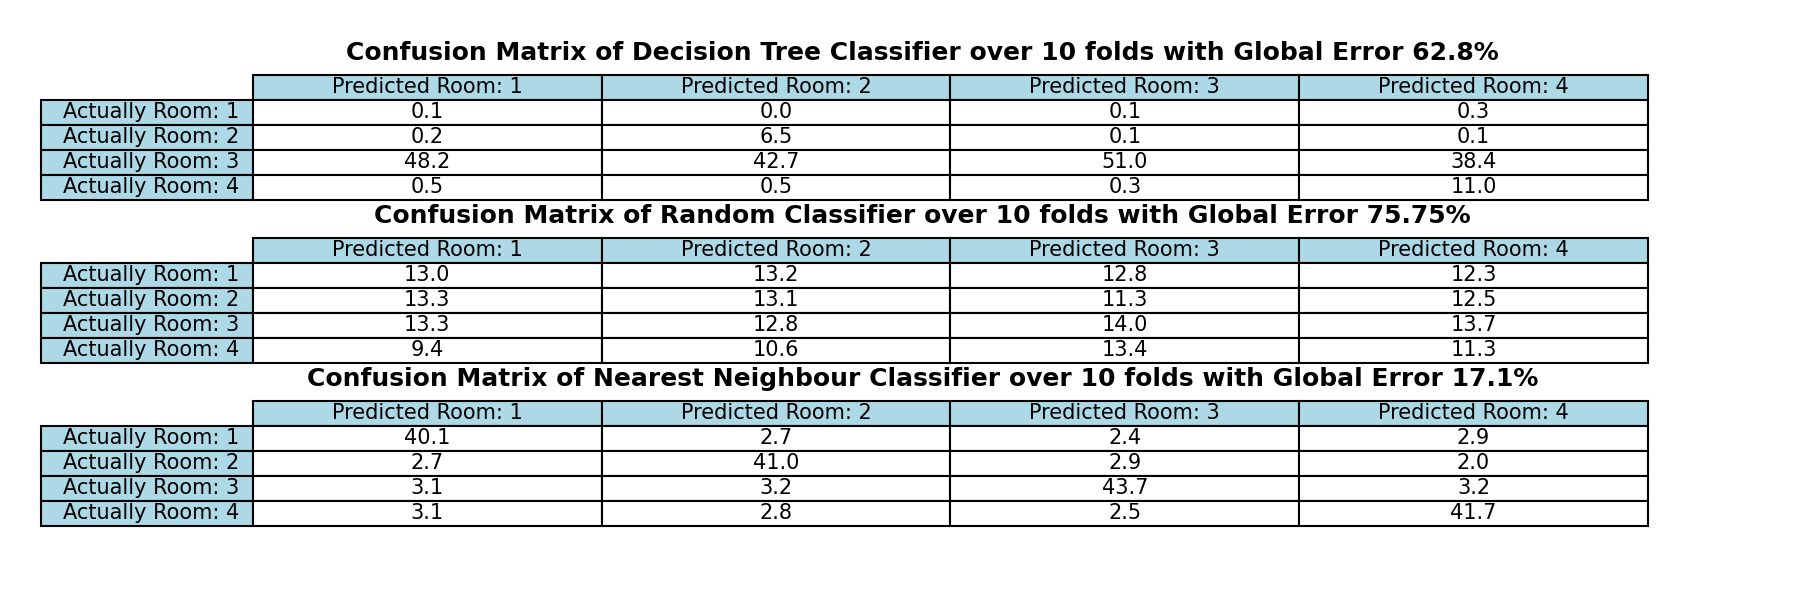
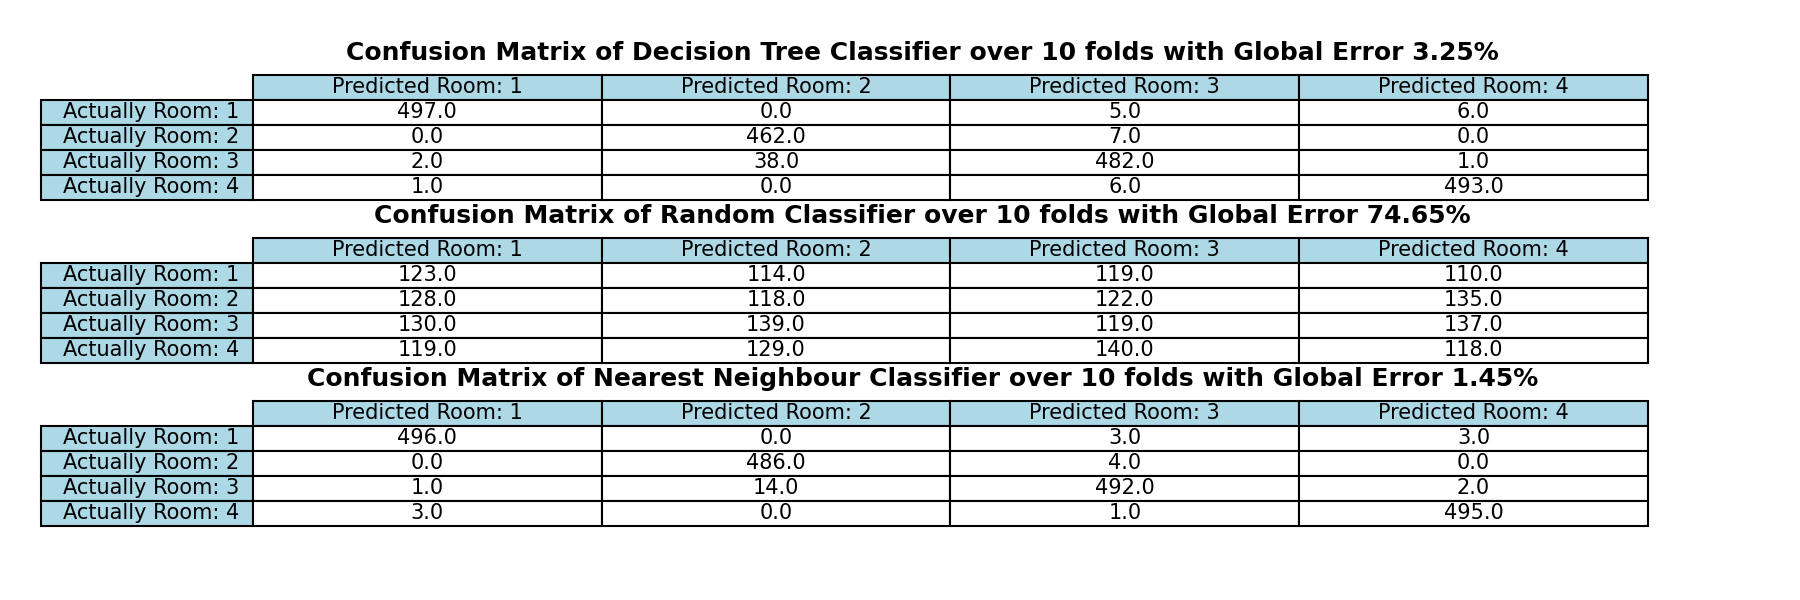
fixing confusion matrix errors

diff --git a/Testbenches.py b/Testbenches.py
@@ -135,13 +135,9 @@ class Model_Comparison_TB():
                             confusion[name][row_index][col_index] += cell
                             #confusion[name][row_index][col_index] += cell / num_folds
 
-        if(1):
+        if(0):
             for name, matrix in confusion.items():     
-                for rowIndex, row in enumerate(matrix):
-                    for colIndex, cell in enumerate(row):
-                            
-                        confusion[name][rowIndex][colIndex] = cell / num_folds
-                
+                confusion[name] = matrix / 10
                 
         self.confusion = confusion
         #print(self.confusion)
@@ -311,281 +307,10 @@ class Depth_Hyperparameter_Tuning():
     def __init__(self, dataset, tree_model, depth_min = 4, depth_max = 55, num_folds=10, mode="preLoaded-noisy"):
         
         # This test takes a very long time to run, so there is some pre-determined data here
-        preRun_clean_data = {
-            4: np.array([[49.8,  0. ,  0.5,  0.9],
-            [ 0. , 43.1,  0.2,  0. ],
-            [ 0.2,  6.9, 49. ,  0.2],
-            [ 0. ,  0. ,  0.3, 48.9]]), 
-            
-            5: np.array([[49.8,  0. ,  0.9,  0.8], 
-            [ 0. , 43.8,  0.5,  0. ],
-            [ 0.2,  6.2, 48.5,  0.1],
-            [ 0. ,  0. ,  0.1, 49.1]]), 
-            
-            6: np.array([[49.8,  0. ,  0.8,  0.7], 
-            [ 0. , 44.3,  0.8,  0. ],
-            [ 0.2,  5.7, 48.3,  0.2],
-            [ 0. ,  0. ,  0.1, 49.1]]), 
-            
-            7: np.array([[49.8,  0. ,  0.9,  0.7], 
-            [ 0. , 45.4,  0.6,  0. ],
-            [ 0.2,  4.6, 48.3,  0. ],
-            [ 0. ,  0. ,  0.2, 49.3]]), 
-            
-            8: np.array([[49.8,  0. ,  0.8,  0.6], 
-            [ 0. , 45.4,  0.7,  0. ],
-            [ 0.2,  4.6, 48.3,  0.2],
-            [ 0. ,  0. ,  0.2, 49.2]]), 
-            
-            9: np.array([[49.7,  0. ,  0.5,  0.6], 
-            [ 0. , 45.2,  0.5,  0. ],
-            [ 0.2,  4.8, 48.7,  0.1],
-            [ 0.1,  0. ,  0.3, 49.3]]), 
-            
-            10: np.array([[49.8,  0. ,  0.8,  0.6],
-            [ 0. , 45.3,  0.5,  0. ],
-            [ 0.2,  4.7, 48.5,  0.1],
-            [ 0. ,  0. ,  0.2, 49.3]]), 
-            
-        11: np.array([[49.7,  0. ,  0.5,  0.4],
-            [ 0. , 45.5,  0.5,  0. ],
-            [ 0.2,  4.5, 48.8,  0.3],
-            [ 0.1,  0. ,  0.2, 49.3]]), 
-            
-        12: np.array([[49.7,  0. ,  0.6,  0.5],
-            [ 0. , 45.7,  0.5,  0. ],
-            [ 0.2,  4.3, 48.7,  0.2],
-            [ 0.1,  0. ,  0.2, 49.3]]), 
-            
-        13: np.array([[49.7,  0. ,  0.7,  0.5],
-            [ 0. , 45.5,  0.5,  0. ],
-            [ 0.2,  4.5, 48.5,  0.2],
-            [ 0.1,  0. ,  0.3, 49.3]]), 
-            
-        14: np.array([[49.7,  0. ,  0.6,  0.3],
-            [ 0. , 45.7,  0.8,  0. ],
-            [ 0.2,  4.3, 48.3,  0.3],
-            [ 0.1,  0. ,  0.3, 49.4]]), 
-            
-        15: np.array([[49.7,  0. ,  0.6,  0.5],
-            [ 0. , 46. ,  0.5,  0. ],
-            [ 0.2,  4. , 48.6,  0.2],
-            [ 0.1,  0. ,  0.3, 49.3]]), 
-            
-        16: np.array([[49.7,  0. ,  0.6,  0.5],
-            [ 0. , 45.8,  0.5,  0. ],
-            [ 0.2,  4.2, 48.6,  0.1],
-            [ 0.1,  0. ,  0.3, 49.4]]), 
-            
-        17: np.array([[49.8,  0. ,  0.7,  0.3],
-            [ 0. , 45.5,  0.5,  0. ],
-            [ 0.2,  4.5, 48.7,  0.2],
-            [ 0. ,  0. ,  0.1, 49.5]]), 
-            
-            18: np.array([[49.7,  0. ,  0.7,  0.5],
-            [ 0. , 46.1,  0.7,  0. ],
-            [ 0.2,  3.9, 48.3,  0.3],
-            [ 0.1,  0. ,  0.3, 49.2]]), 
-            
-            19: np.array([[49.6,  0. ,  0.6,  0.3],
-            [ 0. , 46. ,  0.9,  0. ],
-            [ 0.4,  4. , 48.1,  0.3],
-            [ 0. ,  0. ,  0.4, 49.4]]), 
-            
-            20: np.array([[49.8,  0. ,  0.8,  0.5],
-            [ 0. , 46.2,  0.5,  0. ],
-            [ 0.2,  3.8, 48.6,  0.2],
-            [ 0. ,  0. ,  0.1, 49.3]]), 
-            
-            21: np.array([[49.8,  0. ,  0.7,  0.6],
-            [ 0. , 45.6,  0.5,  0. ],
-            [ 0.2,  4.4, 48.3,  0.1],
-            [ 0. ,  0. ,  0.5, 49.3]]), 
-            
-            22: np.array([[49.7,  0. ,  0.6,  0.4],
-            [ 0. , 45.5,  0.6,  0. ],
-            [ 0.2,  4.5, 48.4,  0.5],
-            [ 0.1,  0. ,  0.4, 49.1]]), 
-            
-            23: np.array([[49.7,  0. ,  0.6,  0.6],
-            [ 0. , 45.8,  0.7,  0. ],
-            [ 0.2,  4.2, 48.3,  0.3],
-            [ 0.1,  0. ,  0.4, 49.1]]), 
-            
-            24:  np.array([[49.7,  0. ,  0.7,  0.5],
-            [ 0. , 45.9,  1. ,  0. ],
-            [ 0.2,  4.1, 48. ,  0.2],
-            [ 0.1,  0. ,  0.3, 49.3]]), 
-            
-            25: np.array([[49.7,  0. ,  0.7,  0.4],
-            [ 0. , 46. ,  0.6,  0. ],
-            [ 0.3,  4. , 48.5,  0.3],
-            [ 0. ,  0. ,  0.2, 49.3]])
-       
-       }
-        
-        
-        preRun_noisy_data = {4: np.array([[ 0. ,  0. ,  0. ,  0. ],
-       [ 0. ,  2.5,  0. ,  0. ],
-       [37.6, 38.2, 39.9, 42. ],
-       [11.4,  9. , 11.6,  7.8]]), 5: np.array([[ 0. ,  0. ,  0.1,  0. ],
-       [ 4.5,  6.4,  6. ,  5.4],
-       [44.5, 43.3, 45.4, 43.8],
-       [ 0. ,  0. ,  0. ,  0.6]]), 6: np.array([[ 0. ,  0. ,  0.1,  0. ],
-       [ 5.1,  5.9,  6.1,  4.9],
-       [43.9, 43.6, 45.3, 43.5],
-       [ 0. ,  0.2,  0. ,  1.4]]), 7: np.array([[ 0.1,  0.3,  0.1,  0. ],
-       [ 0.1,  2.3,  0. ,  0. ],
-       [48.8, 47.1, 51.4, 48.6],
-       [ 0. ,  0. ,  0. ,  1.2]]), 8: np.array([[ 0.2,  0.1,  0.1,  0. ],
-       [ 0.1,  2.2,  0.1,  0. ],
-       [44.7, 42.4, 45.4, 44.3],
-       [ 4. ,  5. ,  5.9,  5.5]]), 9: np.array([[ 0.2,  0.1,  0.1,  0. ],
-       [ 0.2,  3.1,  0.1,  0. ],
-       [44. , 41.4, 45. , 44.3],
-       [ 4.6,  5.1,  6.3,  5.5]]), 10: np.array([[ 0. ,  0.1,  0.1,  0.2],
-       [ 5.5,  6.9,  5.7,  5.2],
-       [37.7, 37.5, 40. , 39. ],
-       [ 5.8,  5.2,  5.7,  5.4]]), 11: np.array([[ 0. ,  0.1,  0. ,  0.1],
-       [ 0.1,  3.8,  0.1,  0.2],
-       [48.9, 45.8, 51.4, 47.2],
-       [ 0. ,  0. ,  0. ,  2.3]]), 12: np.array([[ 0. ,  0. ,  0.1,  0.2],
-       [ 4.5,  6.8,  6.7,  4.9],
-       [44.5, 42.9, 44.7, 42.1],
-       [ 0. ,  0. ,  0. ,  2.6]]), 13: np.array([[ 0. ,  0.1,  0.1,  0.2],
-       [ 0.2,  2.8,  0.1,  0. ],
-       [48.8, 46.8, 51.3, 46.8],
-       [ 0. ,  0. ,  0. ,  2.8]]), 14: np.array([[ 0. ,  0. ,  0.1,  0.1],
-       [ 0.3,  5.6,  0.1,  0.1],
-       [48.4, 44. , 51.2, 42.3],
-       [ 0.3,  0.1,  0.1,  7.3]]), 15: np.array([[ 0. ,  0.2,  0.1,  0.2],
-       [ 0.3,  6.9,  0.2,  0.2],
-       [47.8, 42. , 50.1, 30.2],
-       [ 0.9,  0.6,  1.1, 19.2]]), 16: np.array([[ 3.7,  2.1,  6.6,  5. ],
-       [ 5.2, 17.7,  6.9,  4.7],
-       [39.4, 29.6, 37.7, 25.9],
-       [ 0.7,  0.3,  0.3, 14.2]]), 17: np.array([[ 0.3,  0. ,  0.1,  0.4],
-       [ 0.4, 14.2,  0.4,  0.5],
-       [46.9, 34.7, 49.7, 26.3],
-       [ 1.4,  0.8,  1.3, 22.6]]), 18: np.array([[ 3.8,  1. ,  6.3,  5.9],
-       [ 0.4, 14.9,  0.3,  0.4],
-       [43.1, 32.8, 43.8, 15.2],
-       [ 1.7,  1. ,  1.1, 28.3]]), 19: np.array([[ 0.8,  0.2,  0.1,  0.4],
-       [ 0.5, 20.1,  0.9,  0.6],
-       [46.1, 28.4, 49.4, 14.1],
-       [ 1.6,  1. ,  1.1, 34.7]]), 20: np.array([[ 1.5,  0.2,  0.2,  0.4],
-       [ 0.3, 14.2,  0.4,  0.7],
-       [45.3, 34.4, 49.7, 10.2],
-       [ 1.9,  0.9,  1.2, 38.5]]), 21: np.array([[ 8.7,  0.4,  0.4,  1.2],
-       [ 0.4, 24.2,  1.2,  1. ],
-       [38.4, 24.1, 49. , 15.6],
-       [ 1.5,  1. ,  0.9, 32. ]]), 22: np.array([[ 0.9,  0.1,  0.2,  0.4],
-       [ 0.5, 22.7,  1. ,  1.1],
-       [45.6, 25.8, 48.8,  6.5],
-       [ 2. ,  1.1,  1.5, 41.8]]), 23: np.array([[ 6.4,  0.5,  0.6,  0.6],
-       [ 0.5, 30.5,  1.2,  0.8],
-       [40.3, 17.8, 48.4, 10.7],
-       [ 1.8,  0.9,  1.3, 37.7]]), 24: np.array([[10. ,  0.7,  0.3,  0.9],
-       [ 0.9, 32.1,  1.1,  1.2],
-       [36.3, 15.9, 48.6, 10.7],
-       [ 1.8,  1. ,  1.5, 37. ]]), 25: np.array([[10.1,  1. ,  0.4,  1.4],
-       [ 0.9, 36.6,  1.3,  1. ],
-       [36.1, 11.2, 48.5,  9.3],
-       [ 1.9,  0.9,  1.3, 38.1]]), 26: np.array([[16.1,  1.2,  1.6,  3.3],
-       [ 0.8, 30.5,  1.3,  1.3],
-       [29.9, 17. , 47.1,  4.1],
-       [ 2.2,  1. ,  1.5, 41.1]]), 27: np.array([[17.7,  1.2,  0.8,  1.5],
-       [ 1. , 32.5,  1. ,  1.1],
-       [28.3, 14.9, 48.1,  4.6],
-       [ 2. ,  1.1,  1.6, 42.6]]), 28: np.array([[23. ,  0.8,  0.8,  2.3],
-       [ 0.8, 35.7,  1.2,  1.3],
-       [23.2, 12.2, 48. ,  4.3],
-       [ 2. ,  1. ,  1.5, 41.9]]), 29: np.array([[14.9,  0.6,  1.2,  2.1],
-       [ 0.8, 35.6,  1.1,  1.4],
-       [31.2, 12.4, 47.7,  4.7],
-       [ 2.1,  1.1,  1.5, 41.6]]), 30: np.array([[26.8,  1.7,  1.7,  3.1],
-       [ 1.1, 34.5,  1.3,  1.4],
-       [19. , 12.5, 46.7,  3.1],
-       [ 2.1,  1. ,  1.8, 42.2]]), 31: np.array([[32.4,  1.4,  1.7,  3.7],
-       [ 0.9, 38.1,  1.3,  1.2],
-       [13.8,  9.1, 46.8,  2.4],
-       [ 1.9,  1.1,  1.7, 42.5]]), 32: np.array([[34.9,  1.6,  1.8,  3.1],
-       [ 0.7, 35.9,  1.4,  1.4],
-       [11.3, 11. , 46.5,  2. ],
-       [ 2.1,  1.2,  1.8, 43.3]]), 33: np.array([[34.9,  1.7,  2.3,  5.9],
-       [ 1.2, 39.7,  1.4,  1.3],
-       [10.9,  7.1, 46.3,  1.8],
-       [ 2. ,  1.2,  1.5, 40.8]]), 34: np.array([[44.4,  2. ,  2.9,  5. ],
-       [ 0.9, 39.2,  1.4,  1.5],
-       [ 1.6,  7.3, 45.7,  1.8],
-       [ 2.1,  1.2,  1.5, 41.5]]), 35: np.array([[43.9,  2.1,  2.4,  4.4],
-       [ 1. , 39.1,  1.3,  1.4],
-       [ 2.2,  7.3, 46. ,  1.6],
-       [ 1.9,  1.2,  1.8, 42.4]]), 36: np.array([[44.2,  2.3,  2.4,  4.3],
-       [ 1. , 38.6,  1.6,  1.6],
-       [ 1.8,  7.7, 45.5,  1.6],
-       [ 2. ,  1.1,  2. , 42.3]]), 37: np.array([[44.3,  2. ,  2.8,  4.6],
-       [ 1.1, 39.9,  1.6,  1.4],
-       [ 1.6,  6.8, 45.6,  1.4],
-       [ 2. ,  1. ,  1.5, 42.4]]), 38: np.array([[44.1,  1.8,  2.3,  4.8],
-       [ 0.9, 40.7,  1.4,  1.3],
-       [ 2. ,  6. , 46.3,  1.9],
-       [ 2. ,  1.2,  1.5, 41.8]]), 39: np.array([[43.9,  2.4,  2.6,  4.2],
-       [ 1.1, 38.3,  1.6,  1.5],
-       [ 2. ,  7.7, 45.6,  2. ],
-       [ 2. ,  1.3,  1.7, 42.1]]), 40: np.array([[44.1,  2.2,  2.1,  4.2],
-       [ 1.2, 38.9,  1.4,  1.3],
-       [ 1.6,  7.6, 45.9,  1.9],
-       [ 2.1,  1. ,  2.1, 42.4]]), 41: np.array([[44.1,  2.1,  2.5,  4.2],
-       [ 1.1, 40.6,  1.4,  1.5],
-       [ 1.8,  5.8, 46. ,  1.5],
-       [ 2. ,  1.2,  1.6, 42.6]]), 42: np.array([[43.9,  2.2,  2.3,  5.2],
-       [ 1.1, 40.5,  1.6,  1.3],
-       [ 1.9,  5.8, 45.6,  1.6],
-       [ 2.1,  1.2,  2. , 41.7]]), 43: np.array([[43.6,  2.1,  2.3,  3.7],
-       [ 1.2, 41.8,  1.6,  1.4],
-       [ 2.1,  4.7, 45.9,  1.9],
-       [ 2.1,  1.1,  1.7, 42.8]]), 44: np.array([[44.1,  2.1,  2.3,  4. ],
-       [ 0.8, 38.4,  1.8,  1.5],
-       [ 1.9,  8. , 45.6,  1.8],
-       [ 2.2,  1.2,  1.8, 42.5]]), 45: np.array([[43.8,  2.2,  2.3,  4.2],
-       [ 0.9, 40. ,  1.7,  1.3],
-       [ 2.1,  6.2, 45.4,  1.4],
-       [ 2.2,  1.3,  2.1, 42.9]]), 46: np.array([[43.8,  2.3,  2.2,  4. ],
-       [ 1. , 40.6,  1.7,  1.4],
-       [ 1.9,  5.6, 45.3,  1.4],
-       [ 2.3,  1.2,  2.3, 43. ]]), 47: np.array([[44.1,  2.1,  2.5,  4. ],
-       [ 0.9, 40.7,  1.6,  1.5],
-       [ 2. ,  5.9, 45.6,  1.6],
-       [ 2. ,  1. ,  1.8, 42.7]]), 48: np.array([[44.1,  2.2,  2.7,  4.4],
-       [ 1. , 40.1,  1.6,  1.5],
-       [ 1.9,  6.1, 45.5,  1.4],
-       [ 2. ,  1.3,  1.7, 42.5]]), 49: np.array([[44.2,  2.2,  2.5,  4.6],
-       [ 1. , 40.6,  1.7,  1.6],
-       [ 1.9,  5.7, 45.2,  1.8],
-       [ 1.9,  1.2,  2.1, 41.8]]), 50: np.array([[43.6,  2. ,  2.4,  3.8],
-       [ 1.1, 40. ,  1.6,  1.6],
-       [ 2. ,  6.2, 45.5,  2. ],
-       [ 2.3,  1.5,  2. , 42.4]]), 51: np.array([[43.7,  2.6,  2.5,  4.1],
-       [ 0.9, 40.7,  1.7,  1.6],
-       [ 2.2,  4.8, 45.2,  1.6],
-       [ 2.2,  1.6,  2.1, 42.5]]), 52: np.array([[43.7,  3. ,  2.2,  5.1],
-       [ 1.2, 40.1,  2.1,  1.6],
-       [ 1.9,  5.5, 44.7,  1.9],
-       [ 2.2,  1.1,  2.5, 41.2]]), 53: np.array([[43. ,  2.4,  2.3,  4. ],
-       [ 1.3, 41.1,  1.7,  1.7],
-       [ 2.3,  4.9, 45.3,  1.5],
-       [ 2.4,  1.3,  2.2, 42.6]]), 54: np.array([[43.8,  2.1,  2.5,  4.6],
-       [ 1.1, 40.7,  1.6,  1.6],
-       [ 1.8,  5.3, 45.2,  1.4],
-       [ 2.3,  1.6,  2.2, 42.2]]), 55: np.array([[43.5,  2.4,  2.8,  4.6],
-       [ 1.4, 40.9,  2.2,  1.9],
-       [ 1.7,  5.2, 44.3,  1.6],
-       [ 2.4,  1.2,  2.2, 41.7]])}
 
         
-        self.clean_data = preRun_clean_data
-        self.noisy_data = preRun_noisy_data
+        #self.clean_data = preRun_clean_data
+        #self.noisy_data = preRun_noisy_data
         self.dataset = dataset
         depth = {}
         
@@ -605,7 +330,7 @@ class Depth_Hyperparameter_Tuning():
         self.depth = depth
         
     
-    def show(self):
+    def save(self):
         
         x = []
         y = {}

diff --git a/main.py b/main.py
@@ -30,7 +30,7 @@ def main():
      
   if mode == "depth_benchmark":
     hyperParam = TB.Depth_Hyperparameter_Tuning(dataset, Decision_Tree_Classifier.Tree)
-    hyperParam.show()
+    hyperParam.save()
 
 
   
